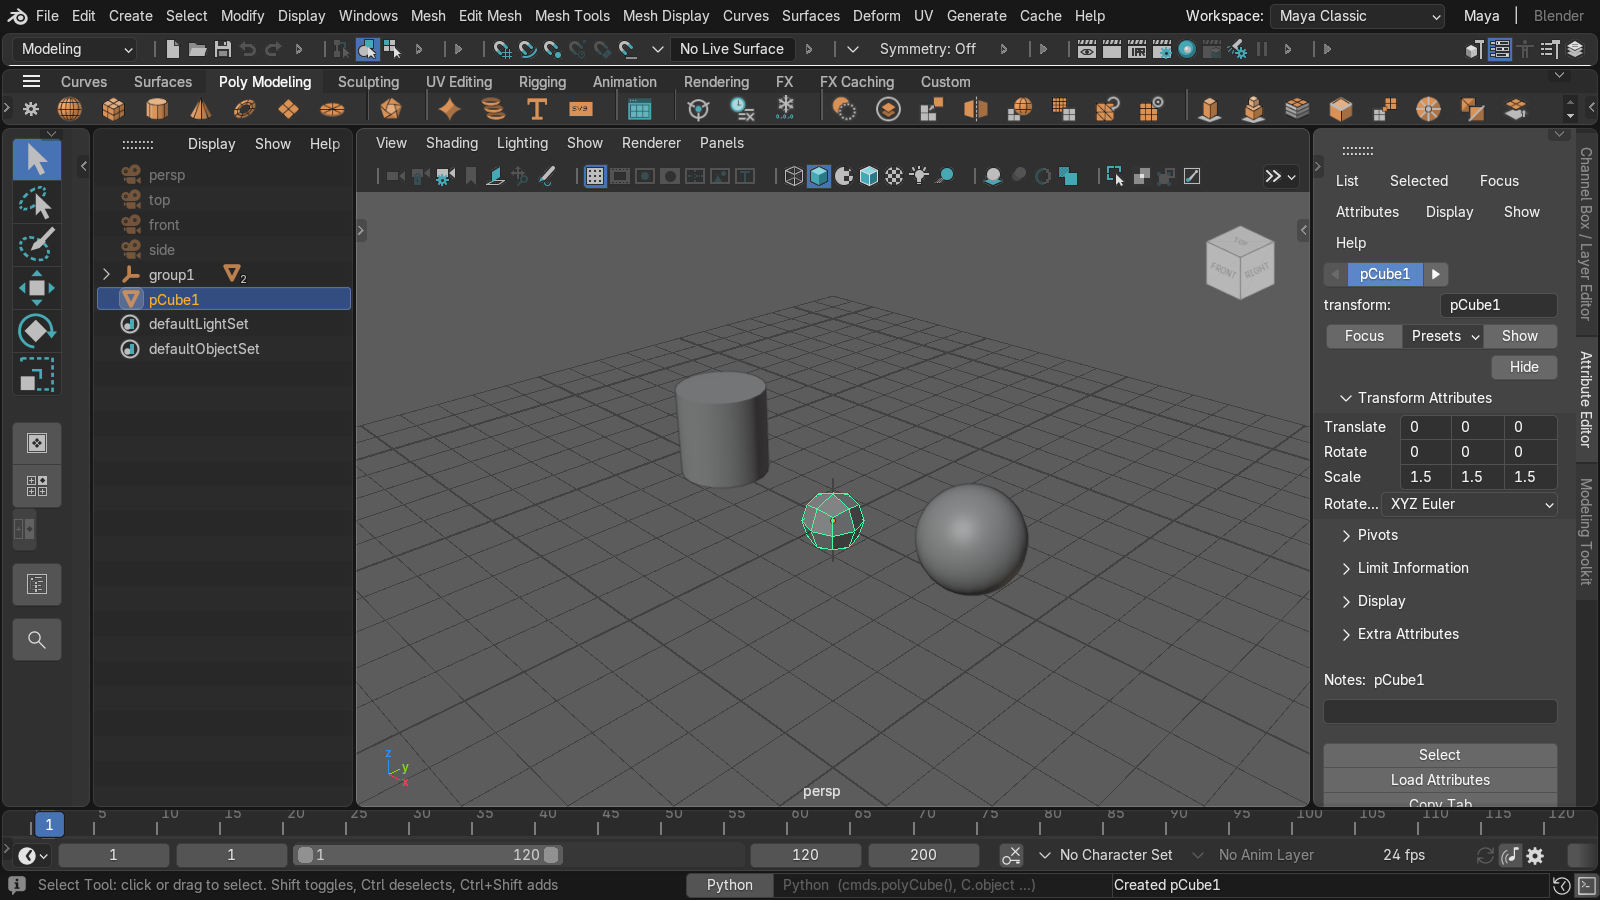
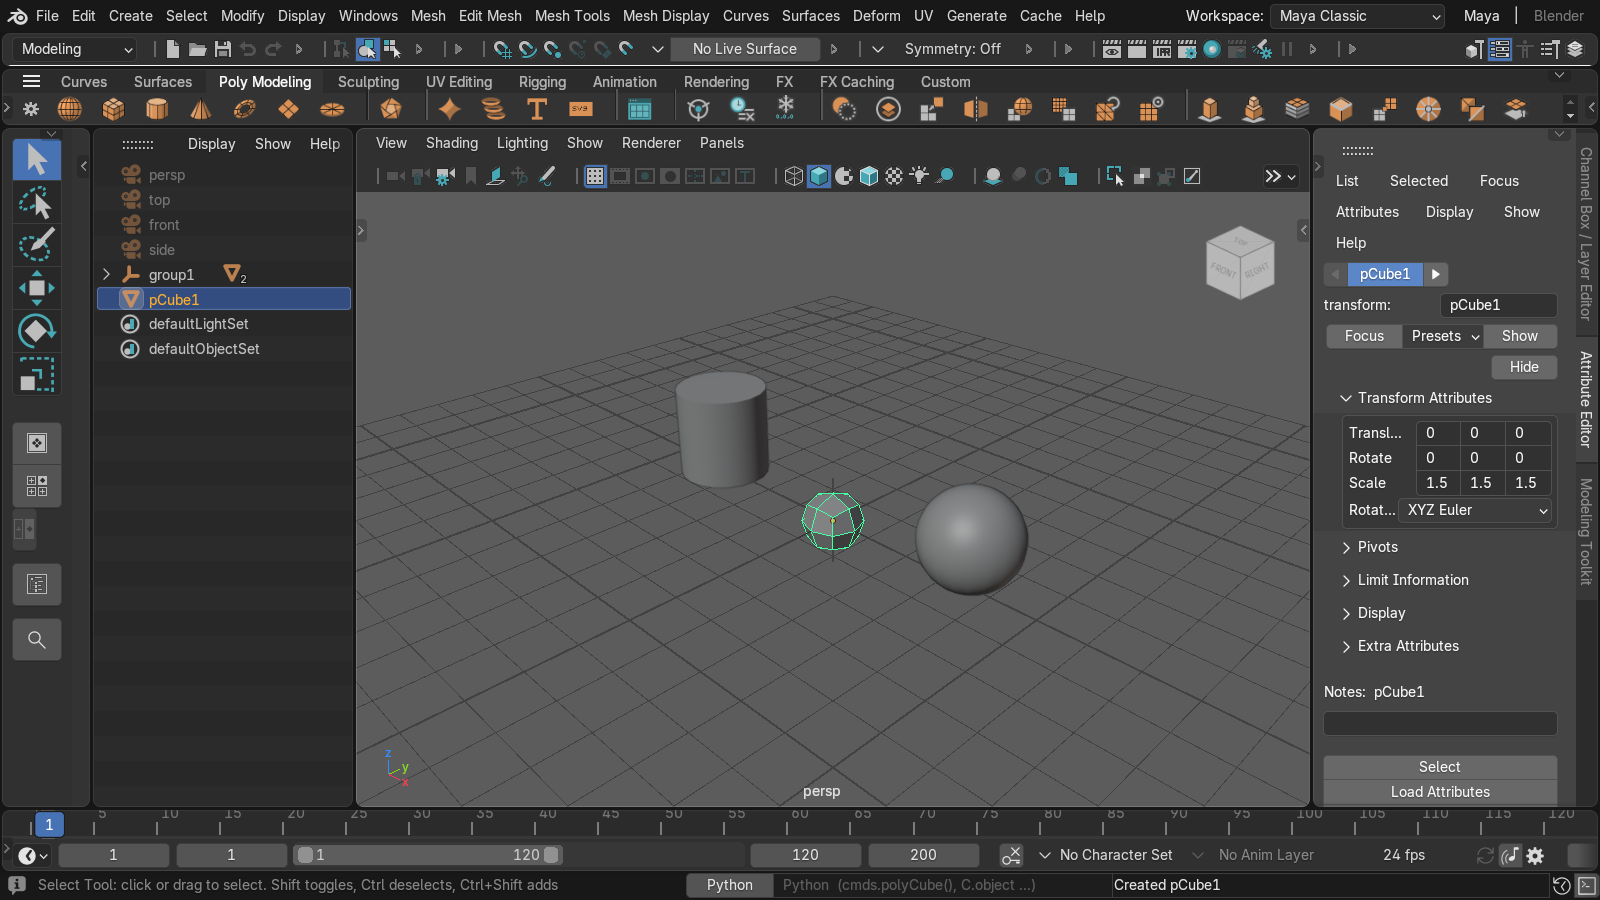
Keep add-on settings over an off/on switch; 0.7.0 notes and screenshots
Blender drops an add-on's preferences when it is unticked in
Preferences > Add-ons. The kit now copies the settings the user changed
into its own user folder on every unregister and puts them back when it
is enabled again with a fresh entry (Remove still resets everything).

Also: changelog entries for the 0.7.0 fixes that were missing, the
supported Blender range in the marketing texts, new Attribute Editor
screenshots and a test branch that only Blender 4.5 needed.

diff --git a/src/allset/preferences.py b/src/allset/preferences.py
@@ -6,9 +6,25 @@ from step 10. Only this add-on's own settings live here: since step 130 (#13) no
 preferences (the navigation / undo / panel / auto key / theme / splash / density / font / wire presets are gone).
 """
 
+import json
+import os
+
 import bpy
 
+# True while ``register()`` puts saved settings back (see ``restore_backup``): no update callback runs then, as at a
+# normal start where Blender loads the saved values without calling them.
+_restoring = [False]
 
+
+def _quiet(fn):
+    def update(self, context):
+        if not _restoring[0]:
+            fn(self, context)
+    update.__name__ = fn.__name__
+    return update
+
+
+@_quiet
 def _redraw_tools(_self, context):
     wm = getattr(context, 'window_manager', None)
     for window in wm.windows if wm else ():
@@ -240,6 +256,7 @@ class ALLSET_AddonPreferences(bpy.types.AddonPreferences):
                     "Blender's menus and workspace tabs (Blender menus stay as submenus)",
         default=True)
     # Maya view furniture, in views whose Blender navigation gizmo is off.
+    @_quiet
     def _update_navigation(self, context):
         from .ui import view_furniture
         if view_furniture._handle:       # Maya mode on (view_furniture registered)
@@ -260,12 +277,14 @@ class ALLSET_AddonPreferences(bpy.types.AddonPreferences):
     maya_camera_names: bpy.props.BoolProperty(
         name="Camera Names", description="Maya camera name (persp, top -Y, ...) at the bottom of the view",
         default=True)
+    @_quiet
     def _update_selection_wire(self, context):
         for window in context.window_manager.windows:
             for area in window.screen.areas:
                 if area.type == 'VIEW_3D':
                     area.tag_redraw()
 
+    @_quiet
     def _update_dock_colors(self, context):
         for window in context.window_manager.windows:
             for area in window.screen.areas:
@@ -370,6 +389,7 @@ class ALLSET_AddonPreferences(bpy.types.AddonPreferences):
                                           "or edges extrudes them and transforms the new ones",
         default=True)
 
+    @_quiet
     def _update_units(self, context):
         from .operators import units
         if self.maya_units:
@@ -539,7 +559,103 @@ def _menu_set_items():
 
 classes = (ALLSET_AddonPreferences,)
 
-register, unregister = bpy.utils.register_classes_factory(classes)
+_register_classes, _unregister_classes = bpy.utils.register_classes_factory(classes)
+
+
+# --- settings backup -------------------------------------------------------------------------------------------
+# Blender deletes an add-on's preferences when the add-on is disabled from Preferences > Add-ons (and when it is
+# removed): ``addon_utils.disable(default_set=True)`` removes its ``preferences.addons`` entry. An update keeps the
+# entry. So every unregister copies the settings the user changed into ``preferences_backup.json`` in the
+# extension's user folder, and a register that finds a fresh entry (no setting set) puts them back. A setting the
+# user put back to its default stays there: the copy is taken at every unregister. Remove deletes the user folder and with it the copy;
+# a --factory-startup session neither writes nor reads it (delegated).
+
+BACKUP_FILE = "preferences_backup.json"
+
+
+def _factory_startup():
+    return bpy.app.factory_startup
+
+
+def _backup_path():
+    if _factory_startup():
+        return None
+    try:
+        folder = bpy.utils.extension_path_user(__package__, create=True)
+    except (ValueError, AttributeError):      # not installed as an extension (legacy add-on)
+        return None
+    return os.path.join(folder, BACKUP_FILE)
+
+
+def _names():
+    return [p.identifier for p in ALLSET_AddonPreferences.bl_rna.properties
+            if p.identifier not in ("rna_type", "bl_idname")]
+
+
+def _addon_prefs():
+    addon = bpy.context.preferences.addons.get(__package__)
+    return addon.preferences if addon is not None else None
+
+
+def save_backup():
+    """Write the settings that differ from a fresh install (the ones Blender stores) to the backup file."""
+    try:
+        p, path = _addon_prefs(), _backup_path()
+        if p is None or not path:
+            return
+        data = {}
+        for name in _names():
+            if p.is_property_set(name):
+                value = getattr(p, name)
+                if isinstance(value, set):
+                    value = sorted(value)
+                elif not isinstance(value, (bool, int, float, str)):
+                    value = list(value)       # vector values
+                data[name] = value
+        with open(path, "w", encoding="utf-8") as fh:
+            json.dump(data, fh, indent=1, sort_keys=True)
+    except Exception as ex:                   # never stop the add-on from unregistering
+        print("Maya Workflow Kit: could not back up the add-on preferences:", ex)
+
+
+def restore_backup():
+    """Put the backup back when Blender gave the add-on a fresh preferences entry. Returns the names restored."""
+    done = []
+    try:
+        p, path = _addon_prefs(), _backup_path()
+        if p is None or not path or not os.path.isfile(path):
+            return done
+        names = _names()
+        if any(p.is_property_set(n) for n in names):
+            return done                       # Blender kept the settings (start, update): they win
+        with open(path, encoding="utf-8") as fh:
+            data = json.load(fh)
+        if not isinstance(data, dict):
+            return done
+        _restoring[0] = True
+        for name in names:
+            if name in data:
+                value = data[name]
+                try:
+                    flag = getattr(p.bl_rna.properties[name], "is_enum_flag", False)
+                    setattr(p, name, set(value) if flag else value)
+                    done.append(name)
+                except (TypeError, ValueError, AttributeError):
+                    pass                      # an option that changed type or lost an enum item since the backup
+    except Exception as ex:
+        print("Maya Workflow Kit: could not restore the add-on preferences:", ex)
+    finally:
+        _restoring[0] = False
+    return done
+
+
+def register():
+    _register_classes()
+    restore_backup()
+
+
+def unregister():
+    _unregister_classes()
 
 
 def get(context=None):

diff --git a/tests/test_step289_prefs_backup.py b/tests/test_step289_prefs_backup.py
@@ -1,0 +1,168 @@
+"""Step 289: the add-on preferences come back after Preferences > Add-ons off / on.
+
+Blender deletes an add-on's preferences entry on ``addon_utils.disable(default_set=True)``; the kit copies the
+settings the user changed into its extension user folder on unregister and puts them back when register finds a
+fresh entry. Test sessions run with --factory-startup, where the copy is off, so this file switches that check off
+for its own enable / disable cycles.
+"""
+
+import json
+import os
+from importlib import import_module
+
+import bpy
+
+import kit
+
+AUTO_ENABLE = False
+
+prefs_mod = import_module(kit.MODULE + ".preferences")
+
+
+class _UserSession:
+    """Run as a normal (not --factory-startup) session; the backup file is removed before and after."""
+
+    def __enter__(self):
+        self.keep = prefs_mod._factory_startup
+        prefs_mod._factory_startup = lambda: False
+        self.path = prefs_mod._backup_path()
+        assert self.path, "no backup path (not installed as an extension?)"
+        self.folder = os.path.dirname(self.path)
+        if os.path.isfile(self.path):
+            os.remove(self.path)
+        self.before = _files(self.folder)
+        return self
+
+    def __exit__(self, *exc):
+        if kit.is_enabled():
+            kit.disable()
+        prefs_mod._factory_startup = self.keep
+        if os.path.isfile(self.path):
+            os.remove(self.path)
+
+
+def _files(folder):
+    out = set()
+    for root, _dirs, files in os.walk(folder):
+        out |= {os.path.relpath(os.path.join(root, f), folder) for f in files}
+    return out
+
+
+def _prefs():
+    return bpy.context.preferences.addons[kit.MODULE].preferences
+
+
+def _change(p):
+    p.select_through = False
+    p.cb_speed = next(i.identifier for i in p.bl_rna.properties["cb_speed"].enum_items if i.identifier != p.cb_speed)
+    p.curve_color_rules = "step289 marker"
+    return {"select_through": p.select_through, "cb_speed": p.cb_speed, "curve_color_rules": p.curve_color_rules}
+
+
+def test_settings_survive_disable_enable():
+    with _UserSession() as s:
+        kit.enable(maya=False)
+        want = _change(_prefs())
+        kit.disable()                       # Blender drops the preferences entry here
+        assert os.path.isfile(s.path), "no backup written on disable"
+        with open(s.path, encoding="utf-8") as fh:
+            data = json.load(fh)
+        assert {k: data.get(k) for k in want} == want, data
+        kit.enable(maya=False)
+        p = _prefs()
+        assert {k: getattr(p, k) for k in want} == want, {k: getattr(p, k) for k in want}
+        assert not p.maya_mode               # never switched on in this session, so still off
+
+
+def test_maya_mode_comes_back_on():
+    with _UserSession():
+        kit.enable(maya=True)
+        assert _prefs().maya_mode
+        kit.disable()
+        kit.enable(maya=False)
+        assert _prefs().maya_mode, "Maya mode was on before the add-on was switched off"
+        switch = import_module(kit.MODULE + ".switch")
+        assert switch._registered[0], "Maya mode modules not registered after the restore"
+
+
+def test_a_setting_put_back_to_default_stays_default():
+    with _UserSession():
+        kit.enable(maya=False)
+        p = _prefs()
+        want = _change(p)
+        p.property_unset("select_through")   # back to its default
+        p.cb_speed = p.bl_rna.properties["cb_speed"].default
+        kit.disable()
+        kit.enable(maya=False)
+        p = _prefs()
+        assert p.select_through is True and p.cb_speed == p.bl_rna.properties["cb_speed"].default, \
+            (p.select_through, p.cb_speed)
+        assert p.curve_color_rules == want["curve_color_rules"]
+
+
+def test_all_settings_reset_restores_nothing():
+    with _UserSession():
+        kit.enable(maya=False)
+        p = _prefs()
+        _change(p)
+        for name in prefs_mod._names():
+            p.property_unset(name)
+        kit.disable()
+        kit.enable(maya=False)
+        p = _prefs()
+        assert not any(p.is_property_set(n) for n in prefs_mod._names()), \
+            [n for n in prefs_mod._names() if p.is_property_set(n)]
+
+
+def test_saved_settings_win_over_the_backup():
+    """An update or a normal start keeps Blender's entry: a stale backup never overwrites it."""
+    with _UserSession() as s:
+        kit.enable(maya=False)
+        _change(_prefs())
+        prefs_mod.save_backup()
+        _prefs().curve_color_rules = "newer"
+        assert prefs_mod.restore_backup() == []
+        assert _prefs().curve_color_rules == "newer"
+        assert os.path.isfile(s.path)
+
+
+def test_restore_runs_no_update_callback():
+    with _UserSession() as s:
+        kit.enable(maya=False)
+        _prefs().maya_units = True             # its update changes the open file's units
+        kit.disable()
+        units_before = (bpy.context.scene.unit_settings.scale_length, bpy.context.scene.unit_settings.length_unit)
+        kit.enable(maya=False)
+        assert _prefs().maya_units
+        assert (bpy.context.scene.unit_settings.scale_length,
+                bpy.context.scene.unit_settings.length_unit) == units_before
+        assert os.path.isfile(s.path)
+
+
+def test_only_the_backup_file_is_written_in_the_user_folder():
+    with _UserSession() as s:
+        ext_root = os.path.normcase(os.path.abspath(bpy.utils.extension_path_user(kit.MODULE)))
+        assert os.path.normcase(os.path.abspath(s.path)).startswith(ext_root + os.sep), (s.path, ext_root)
+        kit.enable(maya=False)
+        _change(_prefs())
+        kit.disable()
+        kit.enable(maya=False)
+        kit.disable()
+        assert _files(s.folder) - s.before == {prefs_mod.BACKUP_FILE}, _files(s.folder) - s.before
+
+
+def test_factory_startup_writes_and_reads_nothing():
+    assert bpy.app.factory_startup, "test sessions run with --factory-startup"
+    assert prefs_mod._backup_path() is None
+    kit.enable(maya=False)
+    try:
+        _change(_prefs())
+    finally:
+        kit.disable()
+    folder = bpy.utils.extension_path_user(kit.MODULE)
+    assert not os.path.isfile(os.path.join(folder, prefs_mod.BACKUP_FILE))
+    kit.enable(maya=False)
+    try:
+        assert _prefs().select_through is True
+    finally:
+        kit.disable()

diff --git a/tests/gui/gui_step171_ghost.py b/tests/gui/gui_step171_ghost.py
@@ -86,9 +86,6 @@ def s_scene():
     for f, x in ((1, 0.0), (10, 18.0 * u)):
         cube.location.x = x
         cube.keyframe_insert("location", index=0, frame=f)
-    for fc in cube.animation_data.action.fcurves if hasattr(cube.animation_data.action, "fcurves") else ():
-        for kp in fc.keyframe_points:
-            kp.interpolation = 'LINEAR'
     try:
         compat = mod("compat")
         for fc in compat.id_fcurves(cube):

diff --git a/src/allset/__init__.py b/src/allset/__init__.py
@@ -39,6 +39,7 @@ def register():
 
 
 def unregister():
+    preferences.save_backup()     # before any module runs: Blender may delete the preferences after this
     switch.unregister_mode()      # whatever Maya mode modules are registered (none after a failed start)
     for mod in reversed(CORE):
         mod.unregister()

diff --git a/CHANGELOG.md b/CHANGELOG.md
@@ -39,7 +39,33 @@ Pivot editing, component scale, Smart Extrude and Make Live from @youngmin2k (#2
   vertex or pivot, like Maya. Middle drag moves the last point; Ctrl+click inverts Blender's scene snapping for that
   click. Thanks to @Oxiidus for the report.
 
+- **Create > Lights > Dome Light** (#201): an image-based dome light (Blender World environment texture) with a
+  domeLight1 locator in the Outliner; its Rotate turns the image and its Intensity sets the strength.
+
 ### Fixed
+- **Scale manipulator like Maya** (#200): the centre handle scales uniformly by the horizontal drag, axis and plane
+  handles scale along them, Ctrl+drag on an axis scales the other two axes, middle drag is half speed and each
+  object scales about its own pivot.
+- **Kit windows remember their size and place** (#203): Hypershade, Render Settings, the editor windows and the
+  other kit windows open again where you left them.
+- **Set Driven Key on one channel twice** (#186): two driven keys on the same transform channel no longer show a
+  stale value; files made with an earlier version are updated when opened.
+- **Graph Editor, first week** (#192): selected objects without keys are listed, the tangent buttons sit on their
+  own row, only selected keys show handles, S sets keys, F / A frame like Maya and Shift+middle drag locks to time or
+  value.
+- **IK on chains of three or more bones** (#181): a Rotate Plane IK handle splits the bend between the joints like
+  Maya.
+- **Bevel part of a cylinder cap rim** (#182): the ends of an open edge chain bevel like Maya; Delete History can be
+  undone and brings the node back.
+- **Skin weights from a Maya FBX** (#189): imported joint weights add up to 1 per vertex, like Maya's own import of
+  the same file (Maya's FBX export leaves out weights of 0.001 and below; the mesh already matched).
+- **Scene updates with many objects** (#191): moving, editing or selecting no longer makes the kit go over every
+  object; on a 620-object scene an update costs about 0.6 ms more than plain Blender (was 2.9 ms).
+- **Shift+drag duplicate and the Outliner** (#217): a duplicate goes last among its siblings, like Maya, and the
+  Outliner rows no longer swap back and forth.
+- **Settings kept when the add-on is switched off and on**: Blender drops an add-on's preferences when it is unticked
+  in Preferences > Add-ons; the kit now keeps a copy in its own user folder and puts it back when it is ticked again
+  (Remove still resets everything).
 - **Maya operations in the Channel Box INPUTS** (#204): Edit Mesh > Bevel, Extrude and Mesh > Smooth (main menu,
   hotbox and shelf) leave their node (polyBevel1, polyExtrudeFace1, polySmoothFace1 …) in INPUTS in object mode too,
   and typing a new value there rebuilds the operation, as long as it is the latest kit operation and the mesh hasn't
